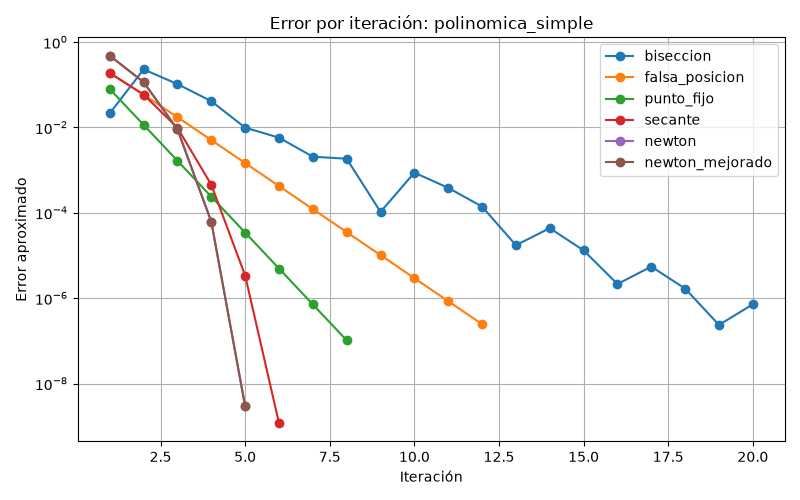
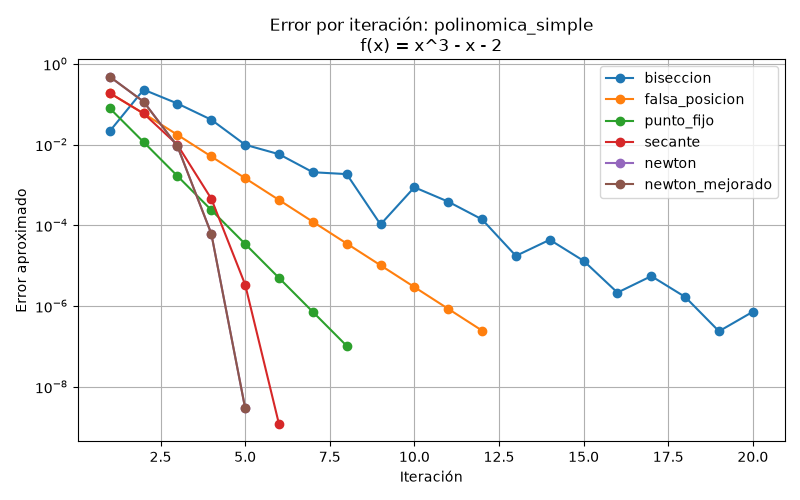
Correcciones en tablas de README.md y avance en informe.md

diff --git a/src/scripts/generar_graficos.py b/src/scripts/generar_graficos.py
@@ -6,6 +6,7 @@ matplotlib.use("Agg")
 
 import matplotlib.pyplot as plt
 import numpy as np
+from textwrap import fill
 
 
 def graficar_funcion(caso, carpeta, raiz):
@@ -38,7 +39,7 @@ def graficar_funcion(caso, carpeta, raiz):
     plt.close()
 
 
-def graficar_convergencia(resultados, carpeta, nombre):
+def graficar_convergencia(resultados, carpeta, nombre, expresion):
     plt.figure(figsize=(8, 5))
     piso_error = 1e-12
     for r in resultados:
@@ -49,7 +50,7 @@ def graficar_convergencia(resultados, carpeta, nombre):
             plt.semilogy(x, error, marker="o", label=r["metodo"])
     plt.xlabel("Iteración")
     plt.ylabel("Error aproximado")
-    plt.title("Error por iteración: " + nombre)
+    plt.title(f"Error por iteración: {nombre}\nf(x) = {expresion}")
     plt.grid()
     plt.legend()
     plt.tight_layout()
@@ -73,7 +74,12 @@ def graficar_resumen(resultados, carpeta):
     plt.xticks(posiciones + ancho * len(metodos) / 2, funciones, rotation=25)
     plt.xlabel("Función")
     plt.ylabel("Iteraciones")
-    plt.title("Iteraciones por método y función")
+    expresiones = sorted(set(r["expresion"] for r in resultados))
+    detalle_funciones = fill("Funciones: " + "; ".join(expresiones), width=80)
+    plt.title(
+        "Iteraciones por método y función\n" + detalle_funciones,
+        fontsize=10,
+    )
     plt.legend()
     plt.tight_layout()
     plt.savefig(f"{carpeta}/resumen_iteraciones.png")

diff --git a/src/scripts/evaluacion.py b/src/scripts/evaluacion.py
@@ -67,6 +67,7 @@ for indice, caso in enumerate(casos):
             error = ""
         fila = {
             "funcion": nombre,
+            "expresion": caso["expresion"],
             "metodo": metodo,
             "iteraciones": salida["iteraciones"],
             "raiz": raiz,
@@ -82,7 +83,9 @@ for indice, caso in enumerate(casos):
                   "error =", error, "estado =", fila["estado"])
 
     graficar_funcion(caso, carpeta_graficos, raiz_grafico)
-    graficar_convergencia(resultados_caso, carpeta_graficos, nombre)
+    graficar_convergencia(
+        resultados_caso, carpeta_graficos, nombre, caso["expresion"]
+    )
 
 guardar_resumen_convergencia(resultados, carpeta_datos)
 graficar_resumen(resultados, carpeta_graficos)
